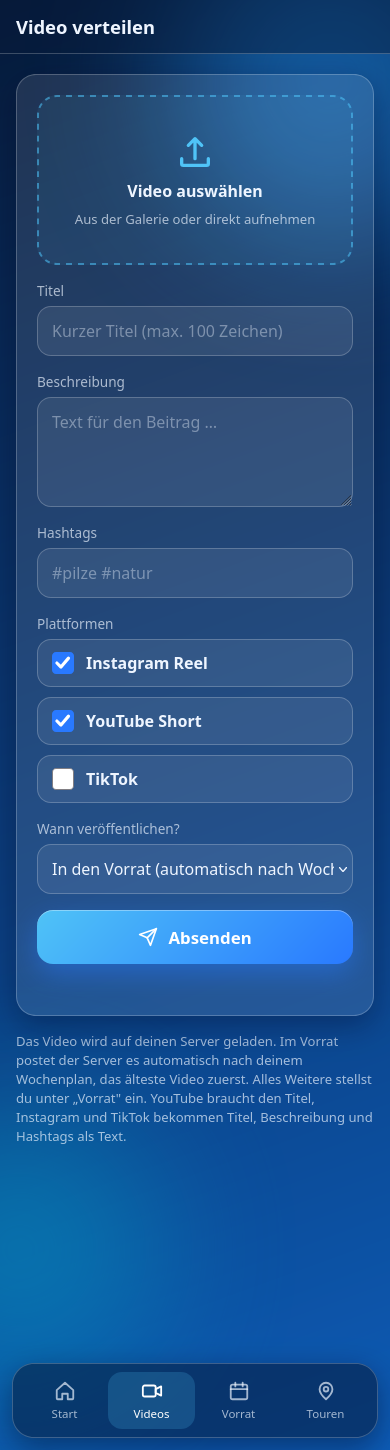
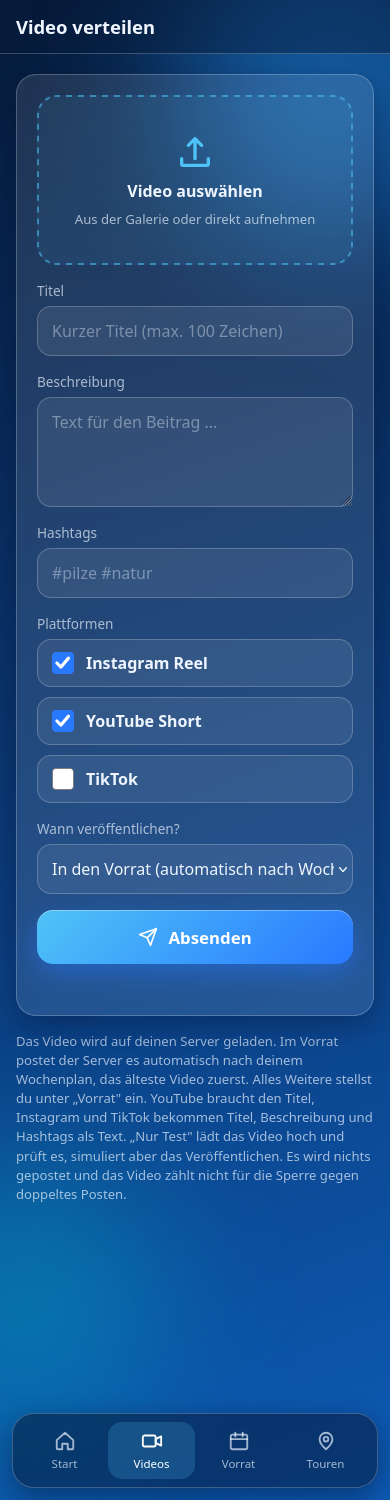
Video-Seite: Option "Nur Test" im Dropdown (simuliert alle Plattformen, zählt nicht für die Sperre), Server testbar ohne Nebenwirkungen, Screenshot neu
Claude-Session: https://claude.ai/code/session_01MYNf8pMomTE6ck1vT4AuAb

diff --git a/server/index.js b/server/index.js
@@ -27,7 +27,7 @@ if (fs.existsSync(envFile)) {
 }
 
 const PORT = process.env.PORT || 3000;
-const UPLOAD_DIR = path.join(__dirname, '..', 'uploads');
+const UPLOAD_DIR = process.env.UPLOAD_DIR || path.join(__dirname, '..', 'uploads');
 const MAX_MB = 500;
 const TICK_MS = 10_000;
 const CATCHUP_MS = 12 * 3600e3;   // verpasste Wochentermine nur bis zu 12 Stunden nachholen
@@ -84,14 +84,15 @@ async function runItem(item) {
     queue.save();
     try {
       // Instagram holt das Video über den Tunnel ab; dessen Adresse wird erst jetzt gelesen
-      const base = p === 'instagram' ? await tunnel.baseUrl(item.base) : item.base;
+      const base = p === 'instagram' && !item.test ? await tunnel.baseUrl(item.base) : item.base;
       const result = await PUBLISHERS[p]({
         videoUrl: `${base}/media/${item.file}`, filePath,
         title: item.title, description: item.description, tags: item.tags, caption,
         onStatus: s => { step.text = s; },
+        test: !!item.test,   // reiner Testlauf: nichts wird veröffentlicht, egal wie IG_MODE/YT_MODE/TT_MODE stehen
       });
       step.state = 'done';
-      step.text = 'Veröffentlicht ✓';
+      step.text = item.test ? 'Test erfolgreich ✓ (nichts veröffentlicht)' : 'Veröffentlicht ✓';
       step.result = result?.id;
       log.add({ itemId: item.id, hash: item.hash, title: item.title, platform: p, status: 'done', result: result?.id, test: !!result?.test });
     } catch (err) {
@@ -228,24 +229,29 @@ app.post('/api/videos', upload.single('video'), async (req, res) => {
   const platforms = cleanPlatforms(req.body.platforms);
   if (!platforms.length) return fail(400, 'Keine gültige Plattform gewählt.');
 
-  // Dasselbe Video nie zweimal hochladen: Vergleich über den Inhalt, nicht über den Dateinamen
-  const hash = await hashFile(req.file.path);
-  const inStock = queue.raw().find(i => i.hash === hash && i.status !== 'done');
-  if (inStock) return fail(409, `Dieses Video ist schon im Vorrat („${inStock.title || inStock.originalName}").`);
-  const posted = log.published(hash);
-  if (posted.length) {
-    const where = [...new Set(posted.map(e => NAMES[e.platform]))].join(', ');
-    const day = new Date(posted[0].time).toLocaleDateString('de-DE');
-    return fail(409, `Dieses Video wurde bereits am ${day} auf ${where} veröffentlicht und wird nicht erneut hochgeladen.`);
-  }
-
   const { errors, warnings } = videocheck.check(await videocheck.probe(req.file.path), platforms);
   if (errors.length) return fail(400, errors.join('\n'));
 
   const when = req.body.when || 'now';
+  const isTest = when === 'test';
+
+  // Dasselbe Video nie zweimal hochladen: Vergleich über den Inhalt, nicht über den Dateinamen.
+  // Ein reiner Testlauf darf dasselbe Video beliebig oft nutzen, er zählt für die Sperre nicht.
+  const hash = await hashFile(req.file.path);
+  if (!isTest) {
+    const inStock = queue.raw().find(i => i.hash === hash && i.status !== 'done' && !i.test);
+    if (inStock) return fail(409, `Dieses Video ist schon im Vorrat („${inStock.title || inStock.originalName}").`);
+    const posted = log.published(hash);
+    if (posted.length) {
+      const where = [...new Set(posted.map(e => NAMES[e.platform]))].join(', ');
+      const day = new Date(posted[0].time).toLocaleDateString('de-DE');
+      return fail(409, `Dieses Video wurde bereits am ${day} auf ${where} veröffentlicht und wird nicht erneut hochgeladen.`);
+    }
+  }
+
   let scheduledAt = null;
   let status = 'draft';
-  if (when === 'now') {
+  if (when === 'now' || isTest) {
     scheduledAt = new Date().toISOString();
     status = 'queued';
   } else if (when === 'schedule') {
@@ -265,6 +271,7 @@ app.post('/api/videos', upload.single('video'), async (req, res) => {
     tags: clean(req.body.tags),
     platforms,
     warnings,
+    test: isTest,
     steps: stepsFor(platforms),
     scheduledAt,
     status,
@@ -391,13 +398,18 @@ app.use((err, req, res, next) => {
   res.status(500).json({ error: 'Serverfehler.' });
 });
 
-app.listen(PORT, '0.0.0.0', () => {
-  console.log(`Läuft auf http://localhost:${PORT} (Instagram-Modus: ${process.env.IG_MODE === 'live' ? 'LIVE' : 'Test'})`);
-  media.start(UPLOAD_DIR, Number(process.env.MEDIA_PORT) || 3001);
-  tunnel.start(Number(process.env.MEDIA_PORT) || 3001);
-  igToken.start();
-  remoteState = remote.start(app);
-  if (remoteState && !process.env.NTFY_TOPIC) console.warn('Hinweis: Ohne NTFY_TOPIC bekommst du die Adresse für unterwegs nicht aufs Handy, sie steht dann nur im Protokoll (journalctl --user -u tourpost).');
-  setInterval(() => { autopilot(); tick(); }, TICK_MS);
-  kick();
-});
+// Nur beim direkten Start (node server/index.js) wird gelauscht und geplant, beim Import (Tests) nicht.
+if (require.main === module) {
+  app.listen(PORT, '0.0.0.0', () => {
+    console.log(`Läuft auf http://localhost:${PORT} (Instagram-Modus: ${process.env.IG_MODE === 'live' ? 'LIVE' : 'Test'})`);
+    media.start(UPLOAD_DIR, Number(process.env.MEDIA_PORT) || 3001);
+    tunnel.start(Number(process.env.MEDIA_PORT) || 3001);
+    igToken.start();
+    remoteState = remote.start(app);
+    if (remoteState && !process.env.NTFY_TOPIC) console.warn('Hinweis: Ohne NTFY_TOPIC bekommst du die Adresse für unterwegs nicht aufs Handy, sie steht dann nur im Protokoll (journalctl --user -u tourpost).');
+    setInterval(() => { autopilot(); tick(); }, TICK_MS);
+    kick();
+  });
+}
+
+module.exports = app;

diff --git a/test/testlauf.test.js b/test/testlauf.test.js
@@ -1,0 +1,69 @@
+// Ein Testlauf ("Nur Test") postet nichts, auch wenn die Plattformen auf live stehen.
+process.env.IG_MODE = 'live';
+process.env.YT_MODE = 'live';
+process.env.TT_MODE = 'live';
+process.env.IG_USER_ID = '1';
+process.env.IG_ACCESS_TOKEN = 'darf-nie-benutzt-werden';
+process.env.PORT = '0';
+
+const test = require('node:test');
+const assert = require('node:assert/strict');
+const fs = require('fs');
+const os = require('os');
+const path = require('path');
+
+const realFetch = global.fetch;
+const calls = [];
+global.fetch = (url, ...rest) => {
+  if (/instagram\.com|googleapis\.com|tiktokapis\.com|oauth2/.test(String(url))) { calls.push(String(url)); throw new Error('Im Testlauf darf keine Plattform angefragt werden: ' + url); }
+  return realFetch(url, ...rest);
+};
+
+const dir = fs.mkdtempSync(path.join(os.tmpdir(), 'tourpost-test-'));
+process.env.DATA_DIR = dir;                       // eigener Datenordner, nie die echten Daten
+process.env.UPLOAD_DIR = path.join(dir, 'uploads');
+const { execFileSync } = require('child_process');
+const video = path.join(dir, 'v.mp4');
+execFileSync('ffmpeg', ['-v', 'error', '-y', '-f', 'lavfi', '-i', 'testsrc=s=720x1280:d=4', '-c:v', 'libx264', '-pix_fmt', 'yuv420p', video]);
+
+let server, base;
+test.before(async () => {
+  // beim Import startet nichts (kein Medienserver, kein Tunnel, kein Planer), nur die Routen
+  const app = require('../server/index.js');
+  server = app.listen(0); await new Promise(r => server.once('listening', r));
+  base = `http://127.0.0.1:${server.address().port}`;
+});
+test.after(() => { server?.close(); fs.rmSync(dir, { recursive: true, force: true }); setTimeout(() => process.exit(0), 100).unref(); });
+
+const upload = (when, title = 'Testlauf') => {
+  const form = new FormData();
+  form.append('video', new Blob([fs.readFileSync(video)], { type: 'video/mp4' }), 'v.mp4');
+  form.append('title', title);
+  form.append('when', when);
+  ['instagram', 'youtube', 'tiktok'].forEach(p => form.append('platforms', p));
+  return realFetch(base + '/api/videos', { method: 'POST', body: form });
+};
+const warte = async id => { for (let i = 0; i < 60; i++) { const it = await (await realFetch(`${base}/api/queue/${id}`)).json(); if (['done', 'error'].includes(it.status)) return it; await new Promise(r => setTimeout(r, 500)); } throw new Error('Zeitüberschreitung'); };
+
+test('Nur Test: nichts wird an Plattformen geschickt, Ergebnis ist als Test gekennzeichnet', async () => {
+  const r = await upload('test');
+  assert.equal(r.status, 200);
+  const it = await warte((await r.json()).id);
+  assert.equal(it.status, 'done');
+  assert.equal(it.test, true);
+  for (const s of Object.values(it.steps)) assert.match(s.text, /Test erfolgreich/);
+  assert.deepEqual(calls, []);
+});
+
+test('Testläufe zählen nicht für die Duplikatsperre, auch nicht mehrfach hintereinander', async () => {
+  for (let i = 0; i < 2; i++) {
+    const r = await upload('test');
+    assert.equal(r.status, 200);
+    await warte((await r.json()).id);
+  }
+  const log = await (await realFetch(base + '/api/log')).json();
+  assert.ok(log.length >= 3 && log.every(e => e.test === true));
+  // dasselbe Video lässt sich danach noch normal in den Vorrat legen
+  const echt = await upload('draft', 'echt');
+  assert.equal(echt.status, 200);
+});

diff --git a/public/video.html b/public/video.html
@@ -67,7 +67,8 @@
         <select id="when" name="when">
           <option value="draft">In den Vorrat (automatisch nach Wochenplan)</option>
           <option value="schedule">Zu einem festen Zeitpunkt</option>
-          <option value="now">Sofort (zum Testen)</option>
+          <option value="now">Sofort veröffentlichen</option>
+          <option value="test">Nur Test (nichts wird veröffentlicht)</option>
         </select>
       </div>
 
@@ -84,7 +85,7 @@
       <p class="status" id="status"></p>
     </form>
 
-    <p class="hint">Das Video wird auf deinen Server geladen. Im Vorrat postet der Server es automatisch nach deinem Wochenplan, das älteste Video zuerst. Alles Weitere stellst du unter „Vorrat" ein. YouTube braucht den Titel, Instagram und TikTok bekommen Titel, Beschreibung und Hashtags als Text.</p>
+    <p class="hint">Das Video wird auf deinen Server geladen. Im Vorrat postet der Server es automatisch nach deinem Wochenplan, das älteste Video zuerst. Alles Weitere stellst du unter „Vorrat" ein. YouTube braucht den Titel, Instagram und TikTok bekommen Titel, Beschreibung und Hashtags als Text. „Nur Test" lädt das Video hoch und prüft es, simuliert aber das Veröffentlichen. Es wird nichts gepostet und das Video zählt nicht für die Sperre gegen doppeltes Posten.</p>
   </main>
 </body>
 </html>

diff --git a/public/js/vorrat.js b/public/js/vorrat.js
@@ -69,7 +69,7 @@ function card(it) {
     `<div class="${s.state === 'error' ? 'err' : ''}">${ICONS[s.state]} ${esc(s.name)}: ${esc(s.text)}</div>`).join('');
   const warns = (it.warnings || []).map(w => `<div class="warn">⚠ ${esc(w)}</div>`).join('');
   const editable = it.status !== 'running' && it.status !== 'done';
-  const when = it.status === 'done' ? `Veröffentlicht ${fmt(it.finishedAt)}`
+  const when = it.status === 'done' ? `${it.test ? 'Getestet (nichts veröffentlicht)' : 'Veröffentlicht'} ${fmt(it.finishedAt)}`
     : it.status === 'draft' ? (it.eta ? `Voraussichtlich ${fmt(it.eta)}` : 'Wartet auf den Wochenplan') : fmt(it.scheduledAt);
 
   return `

diff --git a/server/youtube.js b/server/youtube.js
@@ -41,11 +41,11 @@ async function apiError(res) {
   return new Error('YouTube: ' + msg);
 }
 
-async function publishShort({ filePath, title, description, tags, onStatus }) {
+async function publishShort({ filePath, title, description, tags, onStatus, test }) {
   if (!title) throw new Error('YouTube braucht einen Titel.');
   if (title.length > 100) throw new Error('Der YouTube-Titel darf höchstens 100 Zeichen lang sein.');
 
-  if (process.env.YT_MODE !== 'live') {
+  if (test || process.env.YT_MODE !== 'live') {
     onStatus('Testmodus: YouTube wird simuliert …');
     await sleep(1500);
     return { id: 'test-yt-' + Date.now(), test: true };

diff --git a/server/settings.js b/server/settings.js
@@ -3,7 +3,7 @@
 const fs = require('fs');
 const path = require('path');
 
-const FILE = path.join(__dirname, '..', 'data', 'settings.json');
+const FILE = path.join(process.env.DATA_DIR || path.join(__dirname, '..', 'data'), 'settings.json');
 
 // Standardplan: Freitag und Sonntag um 12:00 (Schalter bleibt aus, bis er in der App eingeschaltet wird)
 let data = { enabled: false, slots: [{ day: 5, time: '12:00' }, { day: 0, time: '12:00' }], lowStock: 2, state: { lastHandled: null, lowNotified: null } };

diff --git a/server/igtoken.js b/server/igtoken.js
@@ -6,7 +6,7 @@ const path = require('path');
 const { setEnvVar } = require('./util');
 const { notify } = require('./notify');
 
-const FILE = path.join(__dirname, '..', 'data', 'igtoken.json');
+const FILE = path.join(process.env.DATA_DIR || path.join(__dirname, '..', 'data'), 'igtoken.json');
 const DAY = 86400e3;
 const REFRESH_AFTER = 20 * DAY;   // spätestens nach 20 Tagen verlängern, dann bleiben ~40 Tage zum Wiederholen
 const WARN_BEFORE = 10 * DAY;

diff --git a/server/instagram.js b/server/instagram.js
@@ -19,8 +19,8 @@ async function graph(path, { method = 'GET', params = {} } = {}) {
   return json;
 }
 
-async function publishReel({ videoUrl, caption, onStatus }) {
-  if (process.env.IG_MODE !== 'live') {
+async function publishReel({ videoUrl, caption, onStatus, test }) {
+  if (test || process.env.IG_MODE !== 'live') {
     onStatus('Testmodus: Instagram wird simuliert …');
     await sleep(1500);
     return { id: 'test-' + Date.now(), test: true };

diff --git a/server/tiktok.js b/server/tiktok.js
@@ -66,8 +66,8 @@ async function putChunk(url, filePath, start, end, total) {
   }
 }
 
-async function publishTikTok({ filePath, caption, onStatus }) {
-  if (process.env.TT_MODE !== 'live') {
+async function publishTikTok({ filePath, caption, onStatus, test }) {
+  if (test || process.env.TT_MODE !== 'live') {
     onStatus('Testmodus: TikTok wird simuliert …');
     await sleep(1500);
     return { id: 'test-tt-' + Date.now(), test: true };

diff --git a/public/js/video.js b/public/js/video.js
@@ -112,7 +112,7 @@ form.addEventListener('submit', async (e) => {
     const item = await upload(data);
     setProgress(null);
 
-    if (when === 'now') {
+    if (when === 'now' || when === 'test') {
       setStatus('Wird verarbeitet …');
       const done = await waitForItem(item.id);
       setStatus(withWarnings(done, stepsText(done)), done.status === 'done' ? 'ok' : 'error');

diff --git a/server/queue.js b/server/queue.js
@@ -2,7 +2,7 @@
 const fs = require('fs');
 const path = require('path');
 
-const DATA_DIR = path.join(__dirname, '..', 'data');
+const DATA_DIR = process.env.DATA_DIR || path.join(__dirname, '..', 'data');
 const FILE = path.join(DATA_DIR, 'queue.json');
 
 let items = [];

diff --git a/server/log.js b/server/log.js
@@ -3,7 +3,7 @@
 const fs = require('fs');
 const path = require('path');
 
-const FILE = path.join(__dirname, '..', 'data', 'log.jsonl');
+const FILE = path.join(process.env.DATA_DIR || path.join(__dirname, '..', 'data'), 'log.jsonl');
 
 function read() {
   try {
